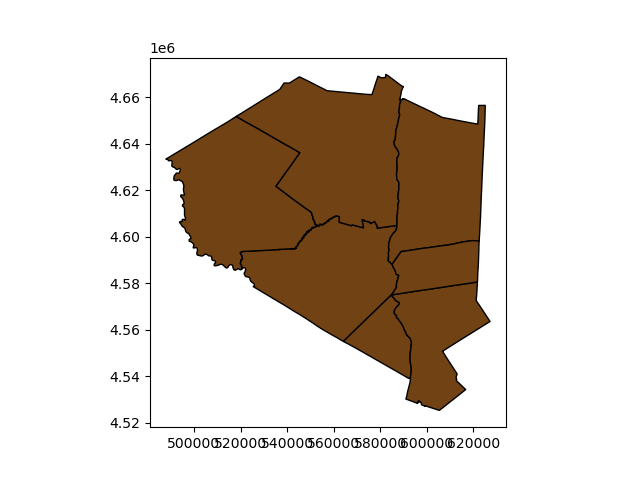
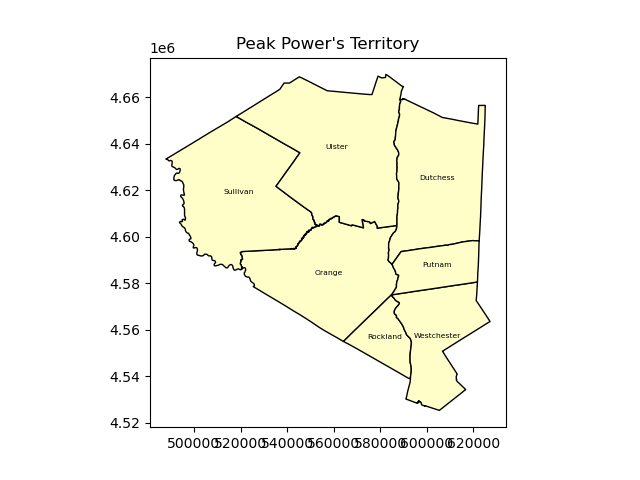
Changed map to be light yellow instead of dark brown

Changed region(s): [[0.25, 0.1562, 0.7812, 0.875], [0.375, 0.0625, 0.6562, 0.125]]

diff --git a/index.js b/index.js
@@ -6,9 +6,9 @@ const app = express();
 app.use(express.urlencoded({ extended: true }))
 app.set('view engine', 'pug');
 app.locals.pretty = true;
-const port = process.env.PORT || 8080;
+const port = 8080;
 const {MongoClient, ServerApiVersion} = require('mongodb');
-const client = new MongoClient(process.env.MONGODB_URL, {
+const client = new MongoClient("mongodb+srv://sales:Generator1@ppsdatabase.n4m5q.mongodb.net/?retryWrites=true&w=majority&appName=PPSDatabase", {
     serverApi: {
         version: ServerApiVersion.v1,
         strict: true,

diff --git a/routes/home.js b/routes/home.js
@@ -1,6 +1,6 @@
 const express = require('express');
 const router = express.Router();
-const username = process.env.EMAIL;
+const username = "sales@peakpowersystems.com";
 
 router.get('/', async (req, res) => {
     res.render('home');

diff --git a/public/scripts/newyorkmap.py b/public/scripts/newyorkmap.py
@@ -28,8 +28,18 @@ indices_of_concern = [35, 43, 59, 52, 55, 13, 39]
 # Plot the counties
 fig, ax = plt.subplots()
 
+counties = ["Orange", "Rockland", "Westchester", "Sullivan",
+            "Ulster", "Dutchess", "Putnam"]
+
 # Plot the counties of concern in sepia color
-ny_counties.loc[indices_of_concern].plot(ax=ax, color='#704214',
+ny_counties.loc[indices_of_concern].plot(ax=ax, color='#fffec9',
                                          edgecolor='black')
 
-plt.savefig("nymap.png")
+for idx, county_name in zip(indices_of_concern, counties):
+    county = ny_counties.loc[idx]
+    ax.annotate(county_name, xy=(county.geometry.centroid.x, county.geometry.centroid.y),
+                ha='center', fontsize=5.5, color='black')
+
+plt.title("Peak Power's Territory")
+
+plt.savefig("peakpowercounties.png")
